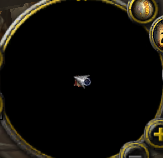
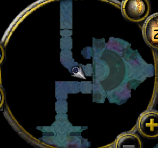
111

diff --git a/src/renderer/src/components/Monster.tsx b/src/renderer/src/components/Monster.tsx
@@ -1,20 +1,11 @@
 import { useEffect, useRef, useState } from 'react'
 
-import { Point } from '@nut-tree/nut-js'
-import {
-  ARROW_IMG_PATH,
-  BLOOD_IMG_PATH,
-  COLOR_DICT,
-  DEGREES_PER_MILLISEOND,
-  PERSON_CENTER
-} from '../constants'
+import { ARROW_IMG_PATH, BLOOD_IMG_PATH, DEGREES_PER_MILLISEOND } from '../constants'
 import {
   base64ToMat,
-  calculateAngle,
   getImageFourFeature,
   getImagePosition,
   imageDataToBase64,
-  ImageInfoInParent,
   imageToBase64,
   leidaPaddingX,
   leidaPaddingY,
@@ -26,17 +17,7 @@ import {
   processImages
 } from '../Util/imageControl'
 import { Key } from '../Util/Key'
-import {
-  clickInRect,
-  colorAt,
-  grabRegion,
-  pressKey,
-  pressKeyDown,
-  pressKeyLong,
-  pressKeyUp,
-  sleep,
-  turning
-} from '../Util/mouseContril'
+import { grabRegion, pressKeyDown, pressKeyLong, pressKeyUp, sleep } from '../Util/mouseContril'
 
 interface IimgTemplate {
   /** 雷达任务箭头 */
@@ -54,11 +35,11 @@ function Monster(): JSX.Element {
   // 移动路径点标记
   const pathIndexRef = useRef(0)
   // 进入战斗标记
-  const isAttactRef = useRef(false)
+  // const isAttactRef = useRef(false)
   // 人物是否在移动中
   const isMoveRef = useRef(false)
   // 找到怪物标记
-  const isMoveMonsterRef = useRef(false)
+  // const isMoveMonsterRef = useRef(false)
 
   // 保存图片计数
   const [imgNum, setImgNum] = useState(0)
@@ -147,6 +128,8 @@ function Monster(): JSX.Element {
   const startLoop = async () => {
     saveLog(`脚本开始运行`)
     stopLoopRef.current = false
+
+    await sleep(2000)
     loop() // Start the loop
   }
 
@@ -155,7 +138,7 @@ function Monster(): JSX.Element {
     stopLoopRef.current = true
     pathIndexRef.current = 0
 
-    await sleep(500)
+    await sleep(2000)
     await playerStop()
     saveLog(`脚本结束运行`)
   }
@@ -168,12 +151,12 @@ function Monster(): JSX.Element {
 
   /** 查找当前的路径类型和路径点 */
   const checkCurrentPosition = async () => {
-    const curPosition = await getCurPosition()
+    // const curPosition = await getCurPosition()
     const attackPaths = await window.api.readdir('images')
     // 记录所有路径图片
     const imgNames = attackPaths.filter((v: string) => v.includes('.'))
 
-    const result = {}
+    // const result = {}
     const imgs = {}
     for await (const item of imgNames) {
       // 读取目标点资源
@@ -251,8 +234,8 @@ function Monster(): JSX.Element {
         // 向下一坐标移动
         await moveToTarget(pathIndexRef.current)
       } else {
-        // stopLoop()
-        pathIndexRef.current = 0
+        stopLoop()
+        // pathIndexRef.current = 0
       }
 
       await sleep(300)
@@ -293,16 +276,16 @@ function Monster(): JSX.Element {
     }
 
     // 调整视角
-    if (Math.abs(needAngle) > 5) {
+    if (Math.abs(needAngle) > 5 && Math.abs(needAngle) < 60) {
       await playerStop()
       // await turning(-needAngle)
-      // await pressKeyLong(
-      //   needAngle < 0 ? Key.A : Key.D,
-      //   Math.abs(needAngle) * DEGREES_PER_MILLISEOND
-      // )
+      await pressKeyLong(
+        needAngle < 0 ? Key.A : Key.D,
+        Math.abs(needAngle) * DEGREES_PER_MILLISEOND
+      )
       // await sleep(1000)
     }
-    // await playerForward()
+    await playerForward()
     // 到达目标点位后，停止移动
     if (distance < 1.5) {
       await playerStop()
@@ -333,47 +316,47 @@ function Monster(): JSX.Element {
     return curPosition
   }
 
-  /** 是否找到怪物 */
-  const isFindMonster = async () => {
-    // 切换怪物
-    if (!isMoveMonsterRef.current) {
-      await pressKey(Key.Tab)
-    }
-    // 判断怪物是否选中
-    const color = await colorAt({ x: COLOR_DICT.hasMonster[0], y: COLOR_DICT.hasMonster[1] })
-    if (color.includes(COLOR_DICT.hasMonster[2])) {
-      // 获取人物视角范围
-      const curImageData = await grabRegion(50, 50, 1600, 780)
-      const curBase64 = await imageDataToBase64(curImageData)
-      // 计算是否找到怪物
-      const { center: targetPoint, score } = await ImageInfoInParent(curBase64, imgTemplate.blood)
-      if (score > 0.8) {
-        return targetPoint
-      }
-    }
-    return false
-  }
+  // /** 是否找到怪物 */
+  // const isFindMonster = async () => {
+  //   // 切换怪物
+  //   if (!isMoveMonsterRef.current) {
+  //     await pressKey(Key.Tab)
+  //   }
+  //   // 判断怪物是否选中
+  //   const color = await colorAt({ x: COLOR_DICT.hasMonster[0], y: COLOR_DICT.hasMonster[1] })
+  //   if (color.includes(COLOR_DICT.hasMonster[2])) {
+  //     // 获取人物视角范围
+  //     const curImageData = await grabRegion(50, 50, 1600, 780)
+  //     const curBase64 = await imageDataToBase64(curImageData)
+  //     // 计算是否找到怪物
+  //     const { center: targetPoint, score } = await ImageInfoInParent(curBase64, imgTemplate.blood)
+  //     if (score > 0.8) {
+  //       return targetPoint
+  //     }
+  //   }
+  //   return false
+  // }
 
-  /** 向怪物移动 */
-  const moveToMonster = async (point: Point) => {
-    // 计算角度
-    const needAngle = calculateAngle(PERSON_CENTER, point)
+  // /** 向怪物移动 */
+  // const moveToMonster = async (point: Point) => {
+  //   // 计算角度
+  //   const needAngle = calculateAngle(PERSON_CENTER, point)
 
-    if (Math.abs(needAngle) > 10) {
-      await playerStop()
-      await turning(needAngle)
-    }
-    await playerForward()
-  }
+  //   if (Math.abs(needAngle) > 10) {
+  //     await playerStop()
+  //     await turning(needAngle)
+  //   }
+  //   await playerForward()
+  // }
 
-  /** 人物是否战斗中 */
-  const isPlayerAttact = async () => {
-    const color = await colorAt({ x: COLOR_DICT.playerAttack[0], y: COLOR_DICT.playerAttack[1] })
-    const color2 = await colorAt({ x: COLOR_DICT.monsteAttack[0], y: COLOR_DICT.monsteAttack[1] })
-    return (
-      !color.includes(COLOR_DICT.playerAttack[2]) && color2.includes(COLOR_DICT.monsteAttack[2])
-    )
-  }
+  // /** 人物是否战斗中 */
+  // const isPlayerAttact = async () => {
+  //   const color = await colorAt({ x: COLOR_DICT.playerAttack[0], y: COLOR_DICT.playerAttack[1] })
+  //   const color2 = await colorAt({ x: COLOR_DICT.monsteAttack[0], y: COLOR_DICT.monsteAttack[1] })
+  //   return (
+  //     !color.includes(COLOR_DICT.playerAttack[2]) && color2.includes(COLOR_DICT.monsteAttack[2])
+  //   )
+  // }
 
   /** 人物前进 */
   const playerForward = async () => {
@@ -409,9 +392,9 @@ function Monster(): JSX.Element {
     // dst.delete()
     // M.delete() // 释放内存
 
-    const curBase64 = imgPaths[`${pathType}-${8}.png`]
-    const tar = await getImageFourFeature(curBase64)
-    const r = await processImages(tar.centerImg, imgTemplate.arrow)
+    const curBase64 = await getCurPosition()
+    // const tar = await getImageFourFeature(curBase64)
+    const r = await processImages(curBase64.centerImg, imgTemplate.arrow)
     console.log('👻 ~ r:', r)
 
     // const [{ distance, angle }, { angle: personAngle }] = await Promise.all([
@@ -473,33 +456,13 @@ function Monster(): JSX.Element {
       <div className={'coordinates'}>
         <div className={'coordinates-item'}>
           <span>雷达起点：</span>
-          <input
-            type="number"
-            value={leidaPointerX}
-            placeholder={'Y坐标'}
-            onChange={(e) => setStartX(+e.target.value)}
-          />
-          <input
-            type="number"
-            value={leidaPointerY}
-            placeholder={'Y坐标'}
-            onChange={(e) => setStartY(+e.target.value)}
-          />
+          <input type="number" value={leidaPointerX} placeholder={'Y坐标'} />
+          <input type="number" value={leidaPointerY} placeholder={'Y坐标'} />
         </div>
         <div className={'coordinates-item'}>
           <span>雷达尺寸：</span>
-          <input
-            type="number"
-            value={leidaPointerWidth}
-            placeholder={'宽度'}
-            onChange={(e) => setWidth(+e.target.value)}
-          />
-          <input
-            type="number"
-            value={leidaPointerHeight}
-            placeholder={'高度'}
-            onChange={(e) => setHeight(+e.target.value)}
-          />
+          <input type="number" value={leidaPointerWidth} placeholder={'宽度'} />
+          <input type="number" value={leidaPointerHeight} placeholder={'高度'} />
         </div>
       </div>
 

diff --git a/src/renderer/src/Util/imageControl.ts b/src/renderer/src/Util/imageControl.ts
@@ -7,15 +7,15 @@ const Tesseract = window.tesseract
 // 定义特征截图的大小
 const CROP_SIZE = 30
 /** 雷达到指针x间距 */
-export const leidaPaddingX = 74
+export const leidaPaddingX = 70
 /** 雷达到指针y间距 */
-export const leidaPaddingY = 70
+export const leidaPaddingY = 65
 /** 雷达指针x坐标 */
-export const leidaPointerX = 1162
+export const leidaPointerX = 1168
 /** 雷达指针y坐标 */
-export const leidaPointerY = 136
+export const leidaPointerY = 130
 /** 雷达指针宽度 */
-export const leidaPointerWidth = 15
+export const leidaPointerWidth = 18
 /** 雷达指针高度 */
 export const leidaPointerHeight = 18
 
@@ -148,7 +148,7 @@ export const getImagePosition = async (
   const mat = await base64ToMat(targetBase64)
 
   // 转为灰度图像
-  cv.cvtColor(mat, mat, cv.COLOR_RGBA2GRAY)
+  // cv.cvtColor(mat, mat, cv.COLOR_RGBA2GRAY)
 
   // 初始化最佳匹配结果
   let bestMatch: any = null
@@ -185,6 +185,7 @@ export const getImagePosition = async (
     }
   }
 
+  cv.imshow('canvasOutput2', mat)
   // 释放大图矩阵的内存
   mat.delete()
 
@@ -204,8 +205,8 @@ const matchAndDraw = async (paneMat: Mat, currentImg: string, targetImg: string)
   ])
 
   // 转为灰度图像
-  cv.cvtColor(curentMat, curentMat, cv.COLOR_RGBA2GRAY)
-  cv.cvtColor(targetMat, targetMat, cv.COLOR_RGBA2GRAY)
+  // cv.cvtColor(curentMat, curentMat, cv.COLOR_RGBA2GRAY)
+  // cv.cvtColor(targetMat, targetMat, cv.COLOR_RGBA2GRAY)
 
   // 对图像进行二值化处理
   // cv.threshold(curentMat, curentMat, 0, 255, cv.THRESH_BINARY + cv.THRESH_OTSU)
@@ -290,6 +291,10 @@ export const processImages = async (queryImg: string, templateImg: string) => {
   cv.cvtColor(src, src, cv.COLOR_RGBA2GRAY)
   cv.cvtColor(template, template, cv.COLOR_RGBA2GRAY)
 
+  // 对图像进行二值化处理
+  cv.threshold(src, src, 0, 255, cv.THRESH_BINARY + cv.THRESH_OTSU)
+  cv.threshold(template, template, 0, 255, cv.THRESH_BINARY + cv.THRESH_OTSU)
+
   let bestMatchVal = -1
   let bestAngle = 0
   let bestLocation = { x: 0, y: 0 }
@@ -313,10 +318,6 @@ export const processImages = async (queryImg: string, templateImg: string) => {
       cv.BORDER_CONSTANT,
       new cv.Scalar()
     )
-    // cv.imshow('canvasOutput', rotatedTemplate)
-    // // 显示最终的匹配结果图像
-    cv.imshow('canvasOutput2', src)
-    // await sleep(50)
 
     // 3. 执行模板匹配
     const result = new cv.Mat()
@@ -329,7 +330,10 @@ export const processImages = async (queryImg: string, templateImg: string) => {
     const minMax = cv.minMaxLoc(result, mask)
     const maxVal = minMax.maxVal
     const maxLoc = minMax.maxLoc
-    // console.log('👻 ~ maxVal:', maxVal, maxLoc)
+
+    // console.log('👻 ~ maxVal:', angle, maxVal.toFixed(4))
+    // cv.imshow('canvasOutput', src)
+    // cv.imshow('canvasOutput2', rotatedTemplate)
 
     if (maxVal > bestMatchVal) {
       bestMatchVal = maxVal

diff --git a/src/main/index.ts b/src/main/index.ts
@@ -86,11 +86,11 @@ app.on('ready', () => {
     // 在这里执行你想要的操作
     mainWindow.webContents.send('shortcut-pressed', 'F1')
   })
-  // globalShortcut.unregister('F2')
-  // globalShortcut.register('F2', () => {
-  //   // 在这里执行你想要的操作
-  //   mainWindow.webContents.send('shortcut-pressed', 'F2')
-  // })
+  globalShortcut.unregister('F2')
+  globalShortcut.register('F2', () => {
+    // 在这里执行你想要的操作
+    mainWindow.webContents.send('shortcut-pressed', 'F2')
+  })
   // globalShortcut.unregister('F3')
   // globalShortcut.register('F3', () => {
   //   // 在这里执行你想要的操作

diff --git a/src/renderer/src/App.tsx b/src/renderer/src/App.tsx
@@ -4,7 +4,7 @@ import Monster from './components/Monster'
 import Fish from './components/Fish'
 
 const App: React.FC = () => {
-  const [active, setActive] = useState(1)
+  const [active, setActive] = useState(2)
 
   return (
     <div className="tabs">
